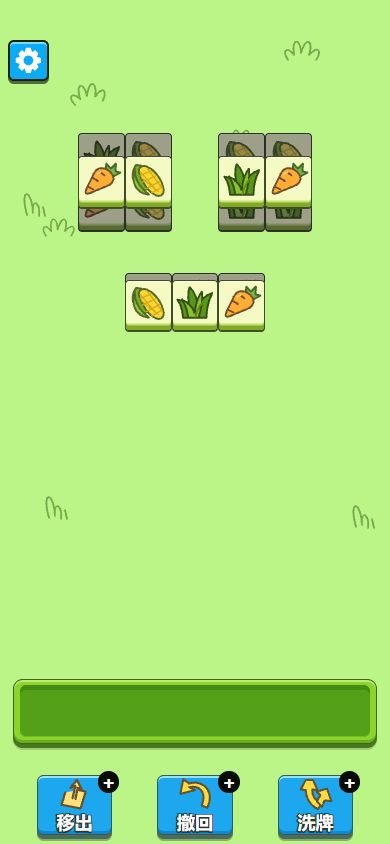
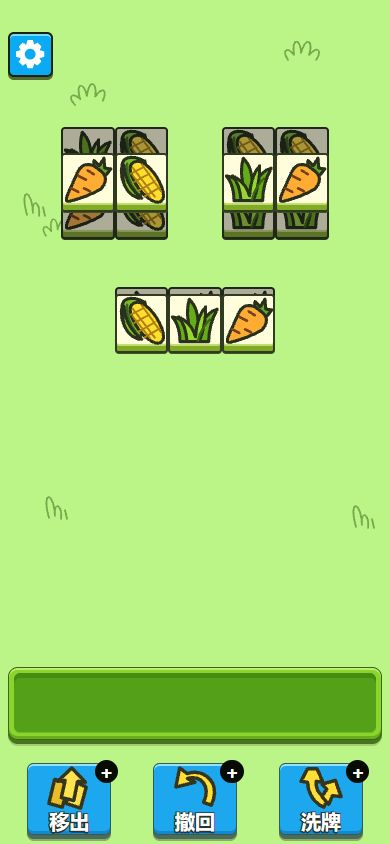
Improve tile readability with larger reference artwork

Changed region(s): [[0.0, 0.7701, 0.9846, 1.0], [0.1538, 0.1232, 0.8615, 0.4313], [0.0, 0.0308, 0.1538, 0.1232]]

diff --git a/src/pages/GamePage.vue b/src/pages/GamePage.vue
@@ -283,11 +283,11 @@ onUnmounted(() => { disposed = true; cancelVisuals(); if (audio) void audio.clos
 </script>
 
 <style scoped>
-#gamePage { position: relative; isolation: isolate; container-type: inline-size; width: 100%; height: 100svh; min-height: 174cqw; margin: 0 auto; color: #344322; --tile-depth: clamp(4px, 1.15cqw, 7px); --board-size: 84cqw; --tile-size: calc(var(--board-size) * 3 / var(--board-units)); --pile-step: clamp(3px, .95cqw, 6px); }
+#gamePage { position: relative; isolation: isolate; container-type: inline-size; width: 100%; height: 100svh; min-height: 190cqw; margin: 0 auto; color: #344322; --tile-depth: clamp(4px, 1.3cqw, 8px); --board-size: 96cqw; --tile-size: calc(var(--board-size) * 3 / var(--board-units)); --pile-step: clamp(3px, .95cqw, 6px); }
 .visually-hidden { position: absolute !important; width: 1px !important; height: 1px !important; padding: 0 !important; margin: -1px !important; overflow: hidden !important; clip-path: inset(50%) !important; white-space: nowrap !important; border: 0 !important; }
 .pasture-marks { position: absolute; inset: 0; width: 100%; height: 100%; pointer-events: none; z-index: -1; }
-.game-toolbar { position: absolute; z-index: 600; top: 4.7%; left: 2%; right: 2%; height: 11cqw; pointer-events: none; }
-.settings-toggle { display: grid; place-items: center; width: 10.6cqw; height: 10.6cqw; padding: 1.1cqw; border: clamp(2px, .7cqw, 4px) solid #192111; border-radius: 1.5cqw; background: #0aaaf4; color: #fff; box-shadow: inset 0 2px 0 #7bdcff, 0 3px 0 #526b35; cursor: pointer; pointer-events: auto; }
+.game-toolbar { position: absolute; z-index: 600; top: 3.8%; left: 2%; right: 2%; height: 11cqw; pointer-events: none; }
+.settings-toggle { display: grid; place-items: center; width: 11.5cqw; height: 11.5cqw; min-width: 44px; min-height: 44px; padding: 1.1cqw; border: clamp(2px, .7cqw, 4px) solid #192111; border-radius: 1.5cqw; background: #0aaaf4; color: #fff; box-shadow: inset 0 2px 0 #7bdcff, 0 3px 0 #526b35; cursor: pointer; pointer-events: auto; }
 .settings-toggle:active { transform: translateY(2px); }
 .mode-label { position: absolute; left: 50%; top: 2.5cqw; transform: translateX(-50%); padding: 5px 12px; border-radius: 5px; color: #fffde9; background: #17230e; font-size: clamp(12px, 3.2cqw, 19px); font-weight: 700; line-height: 1.15; white-space: nowrap; }
 .settings-scrim { position: fixed; z-index: 500; inset: 0; border: 0; padding: 0; background: #2d49231f; }
@@ -297,39 +297,39 @@ onUnmounted(() => { disposed = true; cancelVisuals(); if (audio) void audio.clos
 .settings-action svg { flex: 0 0 22px; width: 22px; height: 22px; }
 .extra-tools { margin-top: 5px; padding-top: 5px; border-top: 1px solid #bccc80; }
 .playfield { position: absolute; top: 18%; left: 0; width: 100%; }
-.classic-game .playfield { top: min(20%, calc(100% - 146cqw)); }
-.has-reserve { min-height: 205cqw !important; }
-.easy-game .playfield { top: 15.75%; }
-.level-board { position: relative; width: 84%; aspect-ratio: 1; margin: 0 auto; isolation: isolate; }
-.tile { display: flex; align-items: center; justify-content: center; padding: 1px 1px calc(var(--tile-depth, 5px) + 1px); border: clamp(1.4px, .35cqw, 2px) solid #3f4c2b; border-radius: clamp(4px, .9cqw, 6px); background: #f5fac5; box-shadow: inset 0 calc(-1 * var(--tile-depth, 5px)) 0 #82ab25, inset 0 calc(-1 * var(--tile-depth, 5px) - 2px) 0 #c5df72, inset 0 1px 0 #ffffe2, 0 1px 0 #3e5424; color: #35472a; user-select: none; -webkit-user-select: none; -webkit-tap-highlight-color: transparent; }
+.classic-game .playfield { top: min(16.5%, calc(100% - 164cqw)); }
+#gamePage.has-reserve { min-height: 215cqw; }
+.easy-game .playfield { top: 15%; }
+.level-board { position: relative; width: 96%; aspect-ratio: 1; margin: 0 auto; isolation: isolate; }
+.tile { display: flex; align-items: center; justify-content: center; padding: 0 0 var(--tile-depth, 5px); border: clamp(1.9px, .52cqw, 3px) solid #303b22; border-radius: clamp(4px, .9cqw, 6px); background: #fffddb; box-shadow: inset 0 calc(-1 * var(--tile-depth, 5px)) 0 #82ab25, inset 0 calc(-1 * var(--tile-depth, 5px) - 2px) 0 #c5df72, inset 0 1px 0 #ffffe2, 0 1px 0 #3e5424; color: #35472a; user-select: none; -webkit-user-select: none; -webkit-tap-highlight-color: transparent; }
 button.tile { cursor: pointer; touch-action: manipulation; }
 button.tile:focus-visible { outline: 3px solid #1676c7; outline-offset: 2px; }
 .level-tile { position: absolute; width: calc(300% / var(--board-units)); height: calc(300% / var(--board-units) + var(--tile-depth)); transition: filter .12s, opacity .1s; }
-.tile.covered { filter: brightness(.64) saturate(.63); cursor: default; }
+.tile.covered { filter: brightness(.68) saturate(.82); cursor: default; }
 .tile:disabled { opacity: 1; }
-.tile.queued { filter: brightness(1.07); }
+.tile.queued { filter: brightness(1.025); }
 .holy-field .tile { outline: 1px solid #ffffd3; }
 .random-board { position: absolute; top: calc(100% + 1cqw); left: 50%; transform: translateX(-50%); display: grid; grid-template-columns: repeat(2, var(--tile-size)); gap: calc(9 * var(--pile-step) + 8px) 1px; }
 .random-pile { position: relative; isolation: isolate; width: var(--tile-size); height: calc(var(--tile-size) + var(--tile-depth)); }
 .random-pile .tile { position: absolute; left: 0; width: 100%; height: 100%; }
 .pile-back { background: #929d75; box-shadow: inset 0 -3px 0 #728052; pointer-events: none; }
 .pile-top { z-index: 12; top: 0; }
-.bottom-ui { position: absolute; bottom: max(2.2cqw, env(safe-area-inset-bottom)); left: 3.4%; width: 93.2%; }
+.bottom-ui { position: absolute; bottom: max(2.2cqw, env(safe-area-inset-bottom)); left: 2%; width: 96%; }
 .reserve-area { position: absolute; bottom: calc(100% + 18px); left: 0; right: 0; display: flex; align-items: center; justify-content: center; gap: 4px; flex-wrap: wrap; }
 .reserve-area.empty { display: none; }
 .reserve-tile { width: var(--tile-size); height: calc(var(--tile-size) + var(--tile-depth)); }
 .reserve-label { font-size: 11px; margin-right: 5px; color: #46652b; }
 .rack { padding: 1.45cqw; border: clamp(1.6px, .4cqw, 2.4px) solid #3d661a; border-radius: 2.5cqw; background: #8bd42b; box-shadow: inset 0 2px 0 #bfec71, inset 0 -3px 0 #69af1c, 0 4px 0 #467720, 0 6px 0 #a3cd6d; }
-.rack-grid { position: relative; height: 13.3cqw; border-radius: 1.6cqw; background: #54a119; box-shadow: inset 0 5px 0 #468c14, inset 0 -1px 0 #72ba28; }
+.rack-grid { position: relative; height: 15.4cqw; border-radius: 1.6cqw; background: #54a119; box-shadow: inset 0 5px 0 #468c14, inset 0 -1px 0 #72ba28; }
 .rack-tile { position: absolute; top: 0; width: calc(100% / var(--slots) - 1px); height: 100%; transition: left .18s cubic-bezier(.22,.65,.35,1); }
 .rack.danger { border-color: #946019; background: #e2bf42; }
 .rack.danger .rack-grid { background: #9c8225; box-shadow: inset 0 5px 0 #836e1f; }
 .rack-failed { animation: rack-shake .3s; }
-.tools { display: flex; justify-content: space-between; gap: 9cqw; margin: 8cqw 6cqw 0; }
-.tool-button { position: relative; display: flex; flex-direction: column; align-items: center; justify-content: flex-end; flex: 0 0 19.4cqw; height: 15.5cqw; padding: .8cqw .8cqw .5cqw; border: clamp(1.6px, .4cqw, 2.4px) solid #385a54; border-radius: 1.7cqw; background: #1da7ef; box-shadow: inset 0 2px 0 #97e1fa, inset 0 -3px 0 #1488ce, 0 4px 0 #496d5c, 0 6px 0 #8fa967; color: white; cursor: pointer; }
-.tool-button > svg { position: absolute; top: .3cqw; left: 50%; transform: translateX(-50%); width: 9cqw; height: 9cqw; }
-.tool-label { position: relative; font-size: clamp(16px, 4.5cqw, 27px); font-weight: 950; line-height: 1.15; -webkit-text-stroke: clamp(2px, .65cqw, 4px) #27352a; paint-order: stroke fill; text-shadow: 0 2px 0 #27352a; letter-spacing: .1cqw; }
-.tool-plus { position: absolute; top: -1.2cqw; right: -2cqw; display: grid; place-items: center; width: 5.5cqw; height: 5.5cqw; border-radius: 50%; background: #070b04; color: white; font: 900 clamp(18px, 5cqw, 30px)/1 system-ui, sans-serif; }
+.tools { display: flex; justify-content: space-between; gap: 9cqw; margin: 6cqw 5cqw 0; }
+.tool-button { position: relative; display: flex; flex-direction: column; align-items: center; justify-content: flex-end; flex: 0 0 21.5cqw; height: 18.5cqw; padding: .8cqw .8cqw .5cqw; border: clamp(1.6px, .4cqw, 2.4px) solid #385a54; border-radius: 1.7cqw; background: #1da7ef; box-shadow: inset 0 2px 0 #97e1fa, inset 0 -3px 0 #1488ce, 0 4px 0 #496d5c, 0 6px 0 #8fa967; color: white; cursor: pointer; }
+.tool-button > svg { position: absolute; top: .3cqw; left: 50%; transform: translateX(-50%); width: 11.8cqw; height: 11.8cqw; }
+.tool-label { position: relative; font-size: clamp(17px, 5cqw, 30px); font-weight: 950; line-height: 1.15; -webkit-text-stroke: clamp(2px, .65cqw, 4px) #27352a; paint-order: stroke fill; text-shadow: 0 2px 0 #27352a; letter-spacing: .1cqw; }
+.tool-plus { position: absolute; top: -1.2cqw; right: -2cqw; display: grid; place-items: center; width: 6cqw; height: 6cqw; border-radius: 50%; background: #070b04; color: white; font: 900 clamp(18px, 5cqw, 30px)/1 system-ui, sans-serif; }
 .tool-button:active:not(:disabled) { transform: translateY(3px); box-shadow: inset 0 2px 0 #97e1fa, inset 0 -2px 0 #1488ce, 0 1px 0 #496d5c, 0 3px 0 #8fa967; }
 .tool-button:disabled { cursor: default; opacity: 1; }
 .text-button { color: #526d35; border: 0; background: transparent; padding: 6px; cursor: pointer; font: inherit; }

diff --git a/src/components/TileIcon.vue b/src/components/TileIcon.vue
@@ -1,6 +1,6 @@
 <template>
   <span v-if="number > 0 && number <= 16" class="tile-art" aria-hidden="true" v-html="artwork"></span>
-  <svg v-else-if="number > 16" class="tile-art" viewBox="0 0 64 64" aria-hidden="true" fill="none" stroke="#514b2b" stroke-width="3" stroke-linecap="round" stroke-linejoin="round">
+  <svg v-else-if="number > 16" class="tile-art" viewBox="0 0 64 64" aria-hidden="true" fill="none" stroke="#29311d" stroke-width="4" stroke-linecap="round" stroke-linejoin="round">
     <g v-if="number === 17">
       <path d="M33 20c-17-13-27 3-20 21 6 18 13 13 19 13s14 4 20-14c6-19-7-31-19-20Z" fill="#f57759" />
       <path d="M32 23 35 9m-1 6c9 1 13-5 14-9-10-1-14 3-14 9Z" fill="#8cbc42" />
@@ -34,12 +34,12 @@ const props = defineProps<{ type: string }>();
 const number = computed(() => /^farm:\d{2}$/.test(props.type) ? Number(props.type.slice(5)) : 0);
 // Bundle trusted local SVGs into the component so external image requests
 // and browser content filters cannot leave otherwise playable tiles blank.
-const tiles = import.meta.glob<string>("../../public/art/tiles/*.svg", { as: "raw", eager: true });
-const artwork = computed(() => tiles[`../../public/art/tiles/block-${String(number.value).padStart(2, '0')}.svg`] || "");
+const tiles = import.meta.glob<string>("../assets/tiles/*.svg", { as: "raw", eager: true });
+const artwork = computed(() => tiles[`../assets/tiles/block-${String(number.value).padStart(2, '0')}.svg`] || "");
 </script>
 
 <style scoped>
-.tile-art { width: 97%; height: 97%; display: block; margin: auto; pointer-events: none; user-select: none; }
+.tile-art { width: 100%; height: 100%; display: block; margin: 0; pointer-events: none; user-select: none; }
 .tile-art :deep(svg) { display: block; width: 100%; height: 100%; }
-.custom-art { font-size: 30px; line-height: 1; }
+.custom-art { font-size: clamp(24px, 8.5cqw, 46px); line-height: 1; }
 </style>

diff --git a/src/components/UiIcon.vue b/src/components/UiIcon.vue
@@ -1,9 +1,9 @@
 <template>
   <svg viewBox="0 0 48 48" fill="none" stroke="currentColor" stroke-width="3" stroke-linecap="round" stroke-linejoin="round" aria-hidden="true">
     <path v-if="name === 'back'" d="m29 12-12 12 12 12" />
-    <g v-else-if="name === 'remove'" fill="#ffe07a" stroke="#66522c"><path d="m12 21-5 17 26 5 7-23-9-2"/><path d="m22 29 4-17-7 3 9-11 7 14-6-3-3 15"/></g>
-    <path v-else-if="name === 'undo'" d="m8 3-4 20 20-5-8-4c14-4 25 8 17 25l8 3C53 16 30 3 16 9Z" fill="#ffdc43" stroke="#63522c" stroke-width="2.8" />
-    <g v-else-if="name === 'shuffle'" fill="#ffdc43" stroke="#63522c" stroke-width="2.8"><path d="m10 4-7 13 7 1c0 12 8 23 17 26l4-8C22 32 18 24 19 17l7 1-6-14Z"/><path d="m39 16 6 17-9-1-4 9-7-8 5-8-5-5Z"/></g>
+    <g v-else-if="name === 'remove'" fill="#ffdf35" stroke="#35341d" stroke-width="3.6"><path d="m9 15 15 4-7 25-14-4Z" fill="#e9bc28"/><path d="m27 16 15 7-6 22-15-5Z" fill="#ffe04a"/><path d="m27 3 14 15-8-1-4 20-13-3 4-18-8 1Z" fill="#ffe34d"/></g>
+    <path v-else-if="name === 'undo'" d="m8 3-4 20 20-5-8-4c14-4 25 8 17 25l8 3C53 16 30 3 16 9Z" fill="#ffdf35" stroke="#35341d" stroke-width="3.6" />
+    <g v-else-if="name === 'shuffle'" fill="#ffdf35" stroke="#35341d" stroke-width="3.6"><path d="m10 4-7 13 7 1c0 12 8 23 17 26l4-8C22 32 18 24 19 17l7 1-6-14Z"/><path d="m39 16 6 17-9-1-4 9-7-8 5-8-5-5Z"/></g>
     <g v-else-if="name === 'settings'" fill="currentColor" stroke="none"><path d="m20 3 8 0 2 7 5-3 6 6-3 5 7 2v8l-7 2 3 5-6 6-5-3-2 7h-8l-2-7-5 3-6-6 3-5-7-2v-8l7-2-3-5 6-6 5 3Z"/><circle cx="24" cy="24" r="8" fill="#0aaaf4"/></g>
     <g v-else-if="name === 'sound'"><path d="m8 20 9-1 10-9v29l-10-9H8Z"/><path d="M34 15c6 5 6 13 0 18"/><path v-if="muted" d="m6 5 36 38" stroke="#b74b3c"/></g>
     <g v-else-if="name === 'restart'"><path d="M9 17a17 17 0 1 1 0 16M9 7v12h12"/></g>

diff --git a/doc/design-research.md b/doc/design-research.md
@@ -31,7 +31,7 @@
 
 [官方IP素材授权声明](https://ip.easygame2021.com/copyright.html)为六张扫描件。研究中直接查看前两页：声明中的免费授权期限截止2026-04-01，并在授权许可例外中排除网络游戏产品的开发、运营与推广。公开可下载不代表已取得本项目再分发这些PNG的授权。
 
-因此，项目`public/art/tiles/block-01.svg`至`block-16.svg`为本次独立编写的原创简化矢量图，使用上述常见农场题材、平涂与粗轮廓语言，没有嵌入官方PNG或沿用其路径数据。官方图片仅作为研究参考，不写入项目公开资源目录。官方名称、角色与其他权利仍归相应权利人所有。
+因此，项目`src/assets/tiles/block-01.svg`至`block-16.svg`为本次独立编写的原创简化矢量图，使用上述常见农场题材、平涂与粗轮廓语言，没有嵌入官方PNG或沿用其路径数据。官方图片仅作为研究参考，不写入项目公开资源目录。官方名称、角色与其他权利仍归相应权利人所有。
 
 图标映射：
 
@@ -57,7 +57,7 @@
 - 手机390×844浏览器实测了同类排序、三消、快速连点、备用堆撤回、暂存牌回收、满槽和移出救回、六张牌完整通关、动画中重新开局。另检查320px窄屏和桌面宽屏无横向溢出。截图位于`doc/previews/`。
 - `npm test`的10个核心回归测试通过，`npm run build`通过。
 
-## 根据用户实机截图校准
+## 根据用户实机截图首次校准
 
 本次以用户提供的两张 JPG 为直接视觉依据。第一张为正常关的密集叠牌，第二张为三种图案的简单关。
 
@@ -68,3 +68,15 @@
 - 托盘与三个道具键按屏宽缩放并靠近屏幕底部；按钮图标、白字描边和黑色加号位于同一蓝色按钮内。窄屏出现暂存牌时增加页面可用高度，避免暂存区遮挡备用堆。
 
 验收：12 项核心测试全部通过，生产构建通过。在 390×844 浏览器中实际完成简单关 18 次点击通关，以及正常关三消、撤回、移出暂存；检查 320×568 和 1280×900 的牌堆、托盘与道具位置。预览截图为 `doc/previews/easy.jpg` 和 `doc/previews/game.jpg`。
+
+## 可读性增强（2026-10-26）
+
+根据用户对尺寸、图案造型和线条对比度的反馈，再次调整：
+
+- 经典牌区从屏宽的 84% 扩大到 96%。390px 手机视图中，单张方块宽度从约 46.8px 增至 53.5px；图案内框从约 41.5px 增至 49.5px，并去掉牌内多余留白。
+- 按截图中的青草、胡萝卜、玉米、木桩、草叉、白菜、羊毛、刷子、红柄剪刀、蓝盖奶瓶、红水桶、蓝手套、铃铛、篝火、毛线和稻草捆重新绘制 16 种图案。稻草使用束腰绑绳造型，剪刀改为截图中的红柄园艺剪造型。
+- 图案外轮廓从 3 单位加粗到 4 单位，统一为深色 `#29311d`；方块描边同步加粗，牌面改为 `#fffddb`，加强轮廓、填色与底色的区分。遮挡牌保留更多色彩，避免图案压暗后糊成一片。
+- 三个道具按钮、道具图标和文字同步放大。适当增加托盘高度与紧凑屏幕的页面高度，确保牌堆和暂存区不相互遮挡。
+- SVG 源文件迁至 `src/assets/tiles/`，通过 Vite 的源码导入内嵌，消除从 `public/` 导入原始图案的开发预览警告。草叉、白菜和羊毛单独校准画布边界，放大后轮廓不裁切。
+
+验收：16 种图案实际渲染边界检查通过；390×844 浏览器实测正常关三消与简单关 18 次点击通关，320×568 实测移出三张牌后暂存区与牌堆不重叠，并检查桌面尺寸。12 项核心测试及生产构建通过。修改前的正常关截图保留为 `doc/previews/game-before-readability.jpg`。

diff --git a/README.md b/README.md
@@ -3,6 +3,7 @@
 基于鱼皮「鱼了个鱼」的 Vue 3 前端项目，按羊了个羊经典牧场视觉重新设计。
 
 - 浅绿草地、奶油立体方牌、绿色七格卡槽、蓝色道具按钮。
+- 16 种默认图案按实机截图重绘，深色粗描边、较大图案占比；牌区扩大到屏宽的 96%，减少辨认负担。
 - 按用户提供的实机截图调整比例与配色：简单关为三种图案、18 张牌，正常关为经典中央叠牌与双备用堆。
 - 21 种原创 SVG 农场图案，仍支持自定义文字和表情。
 - 点击按压、飞入卡槽、同类排序、落位回弹、匹配闪光与星点、平滑补位。
